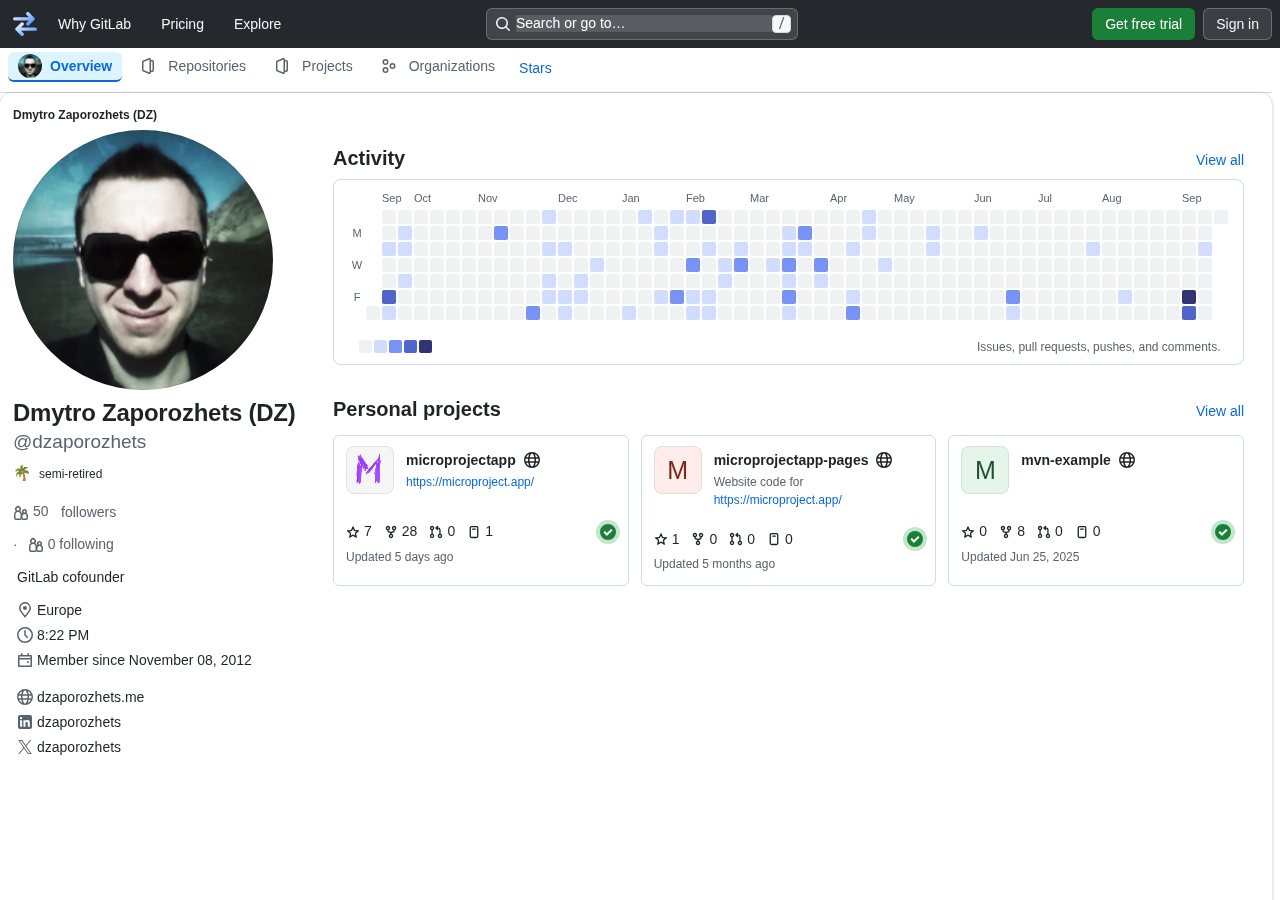
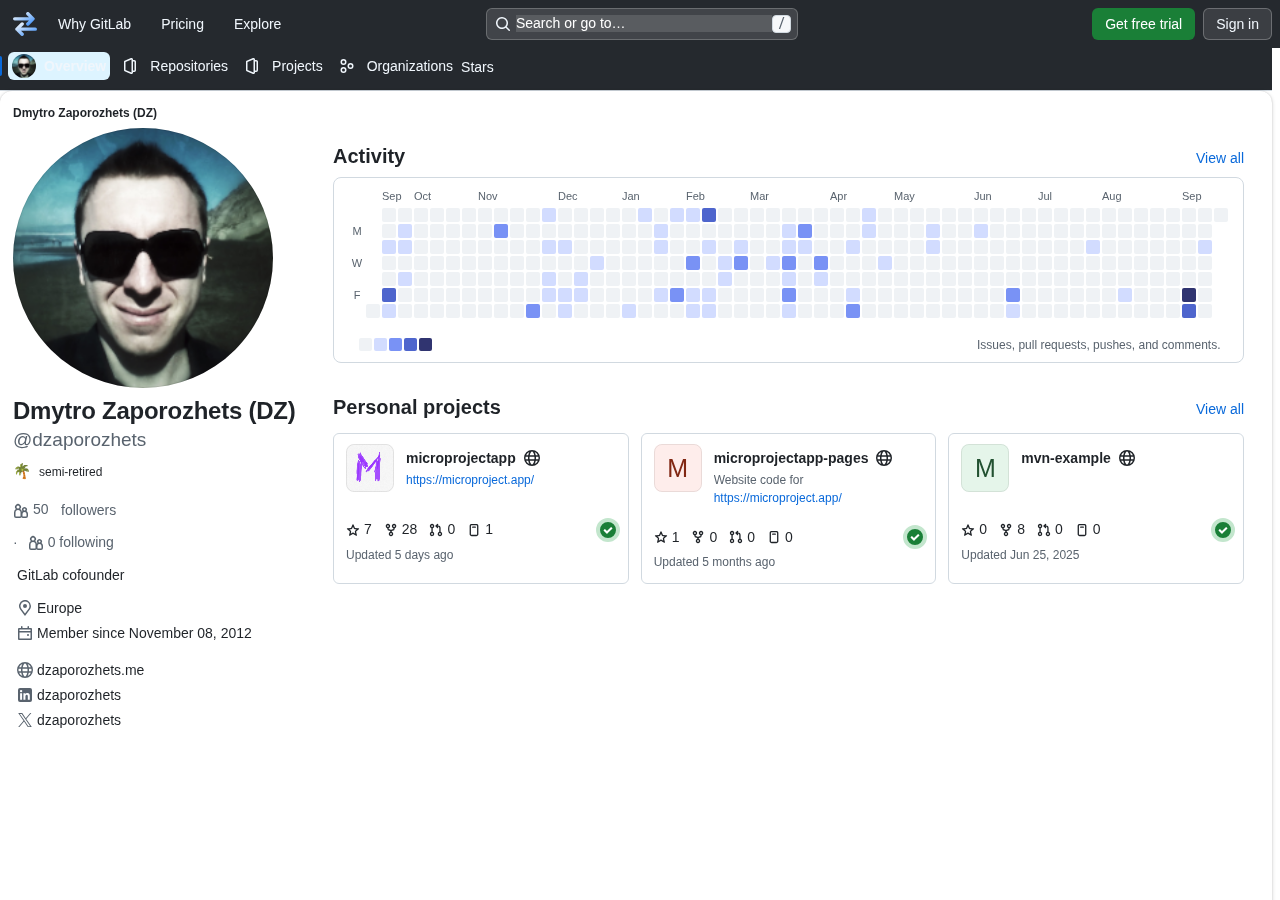
feat(ux): hide GitHub-only profile features under the GitLab skin
GitLab has no public achievements, no profile pinning and no sponsoring, so GitHub's Achievements block, Pinned section and Sponsor links are hidden under the GitLab UI. In the other direction GitHub renders the profile README in full and shows no local time, so GitLab's Read more trigger is removed (the README un-clipped) and the local-time row hidden. e2e covers the Pinned and local-time hides.

diff --git a/src/themes/ux-nav.css b/src/themes/ux-nav.css
@@ -297,6 +297,28 @@ html.gs-theme-gitlab
   height: 96px !important;
 }
 
+/* GitHub-only profile features GitLab has no counterpart for: public
+   achievements (owned, not public, on GitLab), pinned repositories (GitLab has
+   no profile pinning) and sponsoring. */
+html.gs-theme-gitlab
+  main:has(nav[aria-label="User profile"])
+  .h-card
+  .border-top:has(a[href*="tab=achievements"]) {
+  display: none !important;
+}
+
+html.gs-theme-gitlab
+  main:has(nav[aria-label="User profile"])
+  .js-pinned-items-reorder-container {
+  display: none !important;
+}
+
+html.gs-theme-gitlab
+  main:has(nav[aria-label="User profile"])
+  a[href*="/sponsors"] {
+  display: none !important;
+}
+
 /* The content: below the header in the right column. */
 html.gs-theme-gitlab
   main:has(nav[aria-label="User profile"])
@@ -489,6 +511,28 @@ html.gs-theme-github body[data-page="users:show"] .contextual-nav {
   padding-top: 0 !important;
 }
 
+/* GitLab-only profile bits GitHub does not show: the profile README's "Read
+   more" expander (GitHub renders it in full) and the local-time row. */
+html.gs-theme-github
+  body[data-page="users:show"]
+  .js-read-more-trigger {
+  display: none !important;
+}
+
+html.gs-theme-github
+  body[data-page="users:show"]
+  .profile-readme-wrapper
+  :is(.read-more-container, .read-more-content) {
+  max-height: none !important;
+  overflow: visible !important;
+}
+
+html.gs-theme-github
+  body[data-page="users:show"]
+  [data-testid="user-local-time"] {
+  display: none !important;
+}
+
 /* GitHub shows the follower and following counts under the photo rather than as
    navigation. The content script copies them into the card; the originals are
    hidden here. */
@@ -663,28 +707,19 @@ html.gs-theme-github
 
 /* ---------------------------------------------------------------- L → G -- */
 
-/* GitHub's top navigation is a single row of tabs; GitLab's sidebar groups its
-   items. Flatten the groups and show the leaf items as one scrollable row, with
-   GitHub's active-tab underline. */
-html.gs-theme-github .super-sidebar [data-testid="menu-section-button"] {
-  display: none !important;
+/* GitHub's navigation is a dark top bar; GitLab's is a light sidebar. On the
+   GitHub skin the sidebar becomes a dark top strip so it reads as GitHub's bar.
+   Its groups are left intact — flattening them duplicated items and dropped the
+   project navigation. */
+html.gs-theme-github .super-sidebar {
+  background-color: var(--gs-header-bg) !important;
+  color: var(--gs-header-fg) !important;
 }
 
-html.gs-theme-github .super-sidebar [data-testid="menu-section"] {
-  display: contents !important;
-}
-
-html.gs-theme-github .super-sidebar ul {
-  flex-wrap: nowrap !important;
-  overflow-x: auto !important;
-}
-
-html.gs-theme-github .super-sidebar a {
-  padding: 8px 10px !important;
-  border-bottom: 2px solid transparent !important;
+html.gs-theme-github .super-sidebar :is(a, button, span, svg, .gl-icon) {
+  color: var(--gs-header-fg) !important;
 }
 
 html.gs-theme-github .super-sidebar a[aria-current="page"] {
-  border-bottom-color: var(--gs-accent) !important;
   font-weight: 600 !important;
 }

diff --git a/CHANGELOG.md b/CHANGELOG.md
@@ -27,7 +27,9 @@ adheres to [Semantic Versioning](https://semver.org/spec/v2.0.0.html).
   "Overview" ⇄ GitLab's account name), and the applied product's extra
   destinations are added — GitLab's Activity, Groups and Snippets point at
   GitHub's Overview, Organizations and Gists. GitHub's "Packages" has no
-  user-level GitLab page, so GitLab's menu omits it (`content/ux.js`).
+  user-level GitLab page, so GitLab's menu omits it, and GitHub's public
+  Achievements block is hidden under the GitLab UI, where GitLab shows
+  achievements only to the owner (`content/ux.js`, `themes/ux-nav.css`).
 - The GitHub Pages preview (`docs/index.html`) gains GitLab and GitHub
   profile-page swipes beside the project-page ones, captured with
   `npm run screenshots:profiles` (`tools/profile-screenshots.mjs`).

diff --git a/docs/UX-PARITY.md b/docs/UX-PARITY.md
@@ -163,8 +163,10 @@ mapping `Repositories` ⇄ `Personal projects`, `Stars` ⇄ `Starred projects` a
 name), and adding the applied product's extra destinations (GitLab's Activity,
 Groups and Snippets land on GitHub's Overview, Organizations and Gists pages).
 GitHub's `Packages` has no user-level GitLab page, so GitLab's menu omits it, as
-GitHub does when there are none. (GitLab publishes no organisation on a profile,
-so that line cannot be shown.)
+GitHub does when there are none. GitHub's public Achievements block is hidden
+under the GitLab UI, since GitLab shows achievements to the owner rather than on
+a public profile. (GitLab publishes no organisation on a profile, so that line
+cannot be shown.)
 
 ## References
 

diff --git a/docs/PROFILE-PAGE-UX.md b/docs/PROFILE-PAGE-UX.md
@@ -85,7 +85,9 @@ completed with what the source has — GitLab's **Contributed projects** becomes
 GitHub's **Projects** — and GitLab's menu brings **Activity**, **Groups** and
 **Snippets** across to GitHub's Overview, Organizations and Gists pages. GitHub's
 **Packages** has no user-level GitLab page, so GitLab's menu omits it, which is
-what GitHub itself does when there are none.
+what GitHub itself does when there are none. Achievements are shown to a GitLab
+account's owner rather than on its public profile, so GitHub's public
+Achievements block is hidden under the GitLab UI.
 
 ## Where they agree
 
